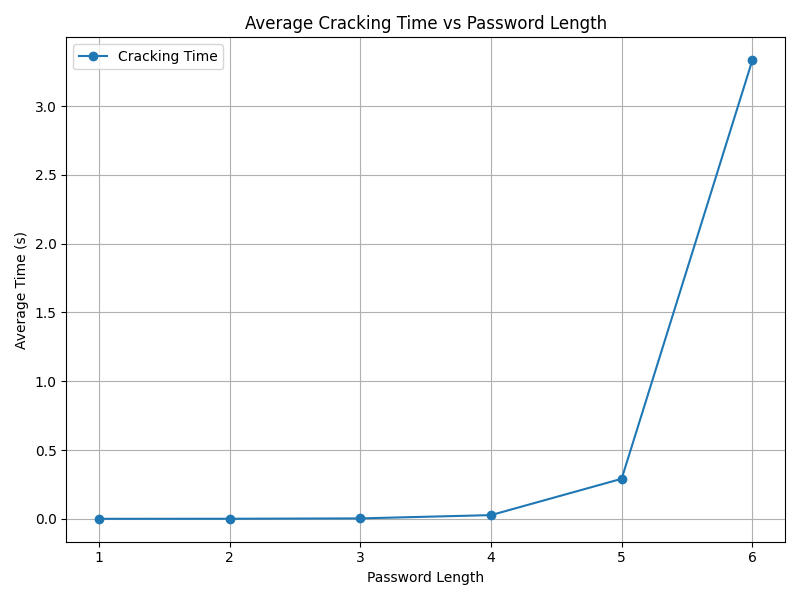
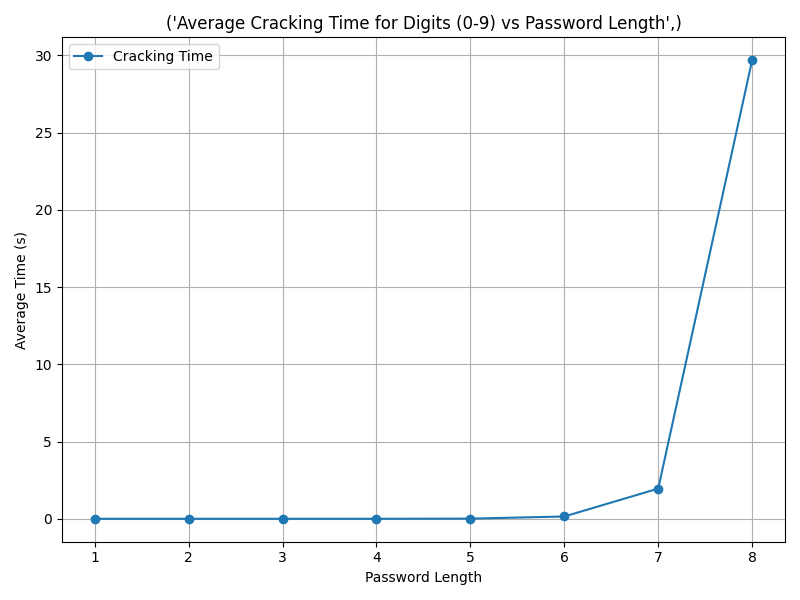
feat: add title

diff --git a/umcs-python/proggraming-in-python/homework3/main.py b/umcs-python/proggraming-in-python/homework3/main.py
@@ -4,7 +4,7 @@ import time
 from typing import List, Tuple
 
 from chart import ChartDrawer
-from menu import CharsetSetSelector
+from menu import CharsetSetSelector, CharacterSet
 
 
 class PasswordCracker:
@@ -36,8 +36,8 @@ class PasswordCracker:
         """
         for combination in itertools.product(character_set, repeat=length):
             password = "".join(combination)
-            print(combination)
-            print(password)
+            # print(combination)
+            # print(password)
 
     def measure_cracking_time(
         self, character_set: str, max_length: int, runs: int
@@ -85,12 +85,12 @@ class PasswordCracker:
             csv_writer.writerows(self.times)
         print(f"Times saved to {filename}")
 
-    def get_user_input(self) -> Tuple[int, int, str]:
+    def get_user_input(self) -> Tuple[int, int, CharacterSet]:
         """
         Get user input for the maximum password length, the number of runs, and character set selection.
 
         Returns:
-            Tuple[int, int, str]: Maximum password length, number of runs, and selected character set.
+            Tuple[int, int, CharacterSet]: Maximum password length, number of runs, and selected character set.
         """
         user_input_max_length = int(input("Enter the maximum password length: "))
         user_input_runs = int(input("Enter the number of runs for better accuracy: "))
@@ -107,9 +107,11 @@ if __name__ == "__main__":
 
     cracker = PasswordCracker()
     max_length, runs, character_set = cracker.get_user_input()
-    cracker.measure_cracking_time(character_set, max_length, runs)
+
+    cracker.measure_cracking_time(character_set.value[0], max_length, runs)
     cracker.save_times_to_csv(csv_file_name)
 
+    title = (f"Average Cracking Time for {character_set.value[0]} vs Password Length",)
     drawer = ChartDrawer(csv_file=csv_file_name)
     drawer.load_data_from_csv()
-    drawer.draw_and_save_chart(output_file=chart_image_name)
+    drawer.draw_and_save_chart(output_file=chart_image_name, title=title)

diff --git a/umcs-python/proggraming-in-python/homework3/menu/charset_selector.py b/umcs-python/proggraming-in-python/homework3/menu/charset_selector.py
@@ -1,5 +1,4 @@
 import curses
-import string
 
 from menu.charset_set import CharacterSet
 
@@ -47,9 +46,7 @@ class CharsetSetSelector:
             elif key == curses.KEY_DOWN and current_selection < len(self.charsets) - 1:
                 current_selection += 1
             elif key in [curses.KEY_ENTER, 10, 13]:
-                return self.charsets[
-                    current_selection
-                ]
+                return self.charsets[current_selection]
 
     def fallback_menu(self) -> str:
         """
@@ -65,12 +62,12 @@ class CharsetSetSelector:
         choice = input("Enter the number of your choice: ").strip()
         return self.charsets[int(choice) - 1]
 
-    def get_selection(self) -> str:
+    def get_selection(self) -> CharacterSet:
         """
         Displays the character set selection menu, falling back to text-based if curses fails.
 
         Returns:
-            str: The selected character set.
+            CharacterSet: The selected character set.
         """
         try:
             selected_option = curses.wrapper(self.curses_menu)
@@ -79,5 +76,8 @@ class CharsetSetSelector:
 
         charset_enum = CharacterSet.get_by_name(selected_option)
         if charset_enum == CharacterSet.CUSTOM:
-            return input("Enter your custom character set: ")
-        return charset_enum.value[1] if charset_enum else string.digits
+            custom_value = input("Enter your custom character set: ")
+            charset_enum = CharacterSet.CUSTOM
+            charset_enum.value = ("Custom Character Set", custom_value)
+
+        return charset_enum if charset_enum else CharacterSet.DIGITS

diff --git a/umcs-python/proggraming-in-python/homework3/chart/chart_drawer.py b/umcs-python/proggraming-in-python/homework3/chart/chart_drawer.py
@@ -31,7 +31,11 @@ class ChartDrawer:
             for row in csv_reader:
                 self.data.append((int(row[0]), float(row[1])))
 
-    def draw_and_save_chart(self, output_file: str = "chart.png") -> None:
+    def draw_and_save_chart(
+        self,
+        output_file: str = "chart.png",
+        title="Average Cracking Time vs Password Length",
+    ) -> None:
         """
         Draw the chart from the loaded data and save it as a PNG file.
 
@@ -47,7 +51,7 @@ class ChartDrawer:
 
         plt.figure(figsize=(8, 6))
         plt.plot(lengths, times, marker="o", label="Cracking Time")
-        plt.title("Average Cracking Time vs Password Length")
+        plt.title(title)
         plt.xlabel("Password Length")
         plt.ylabel("Average Time (s)")
         plt.grid(True)
